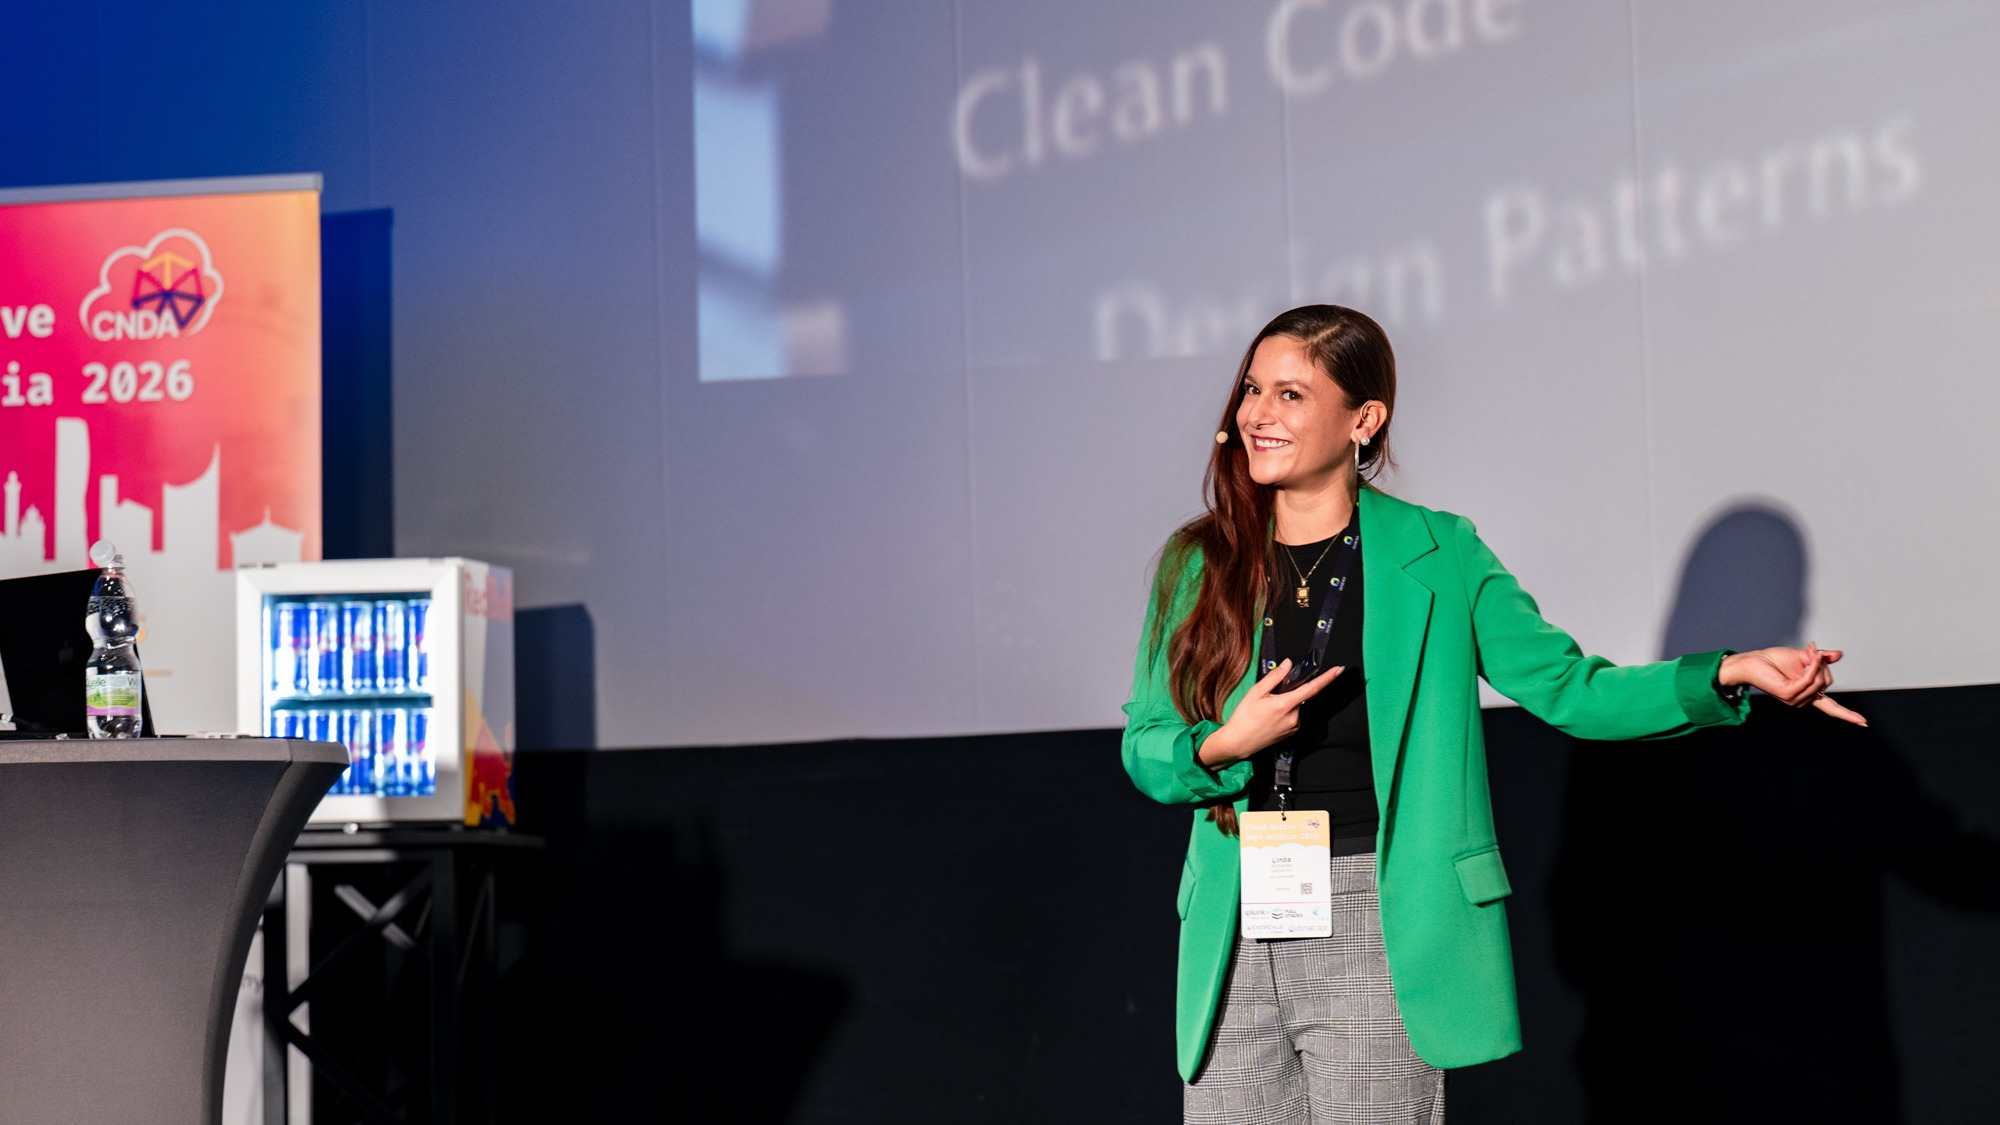
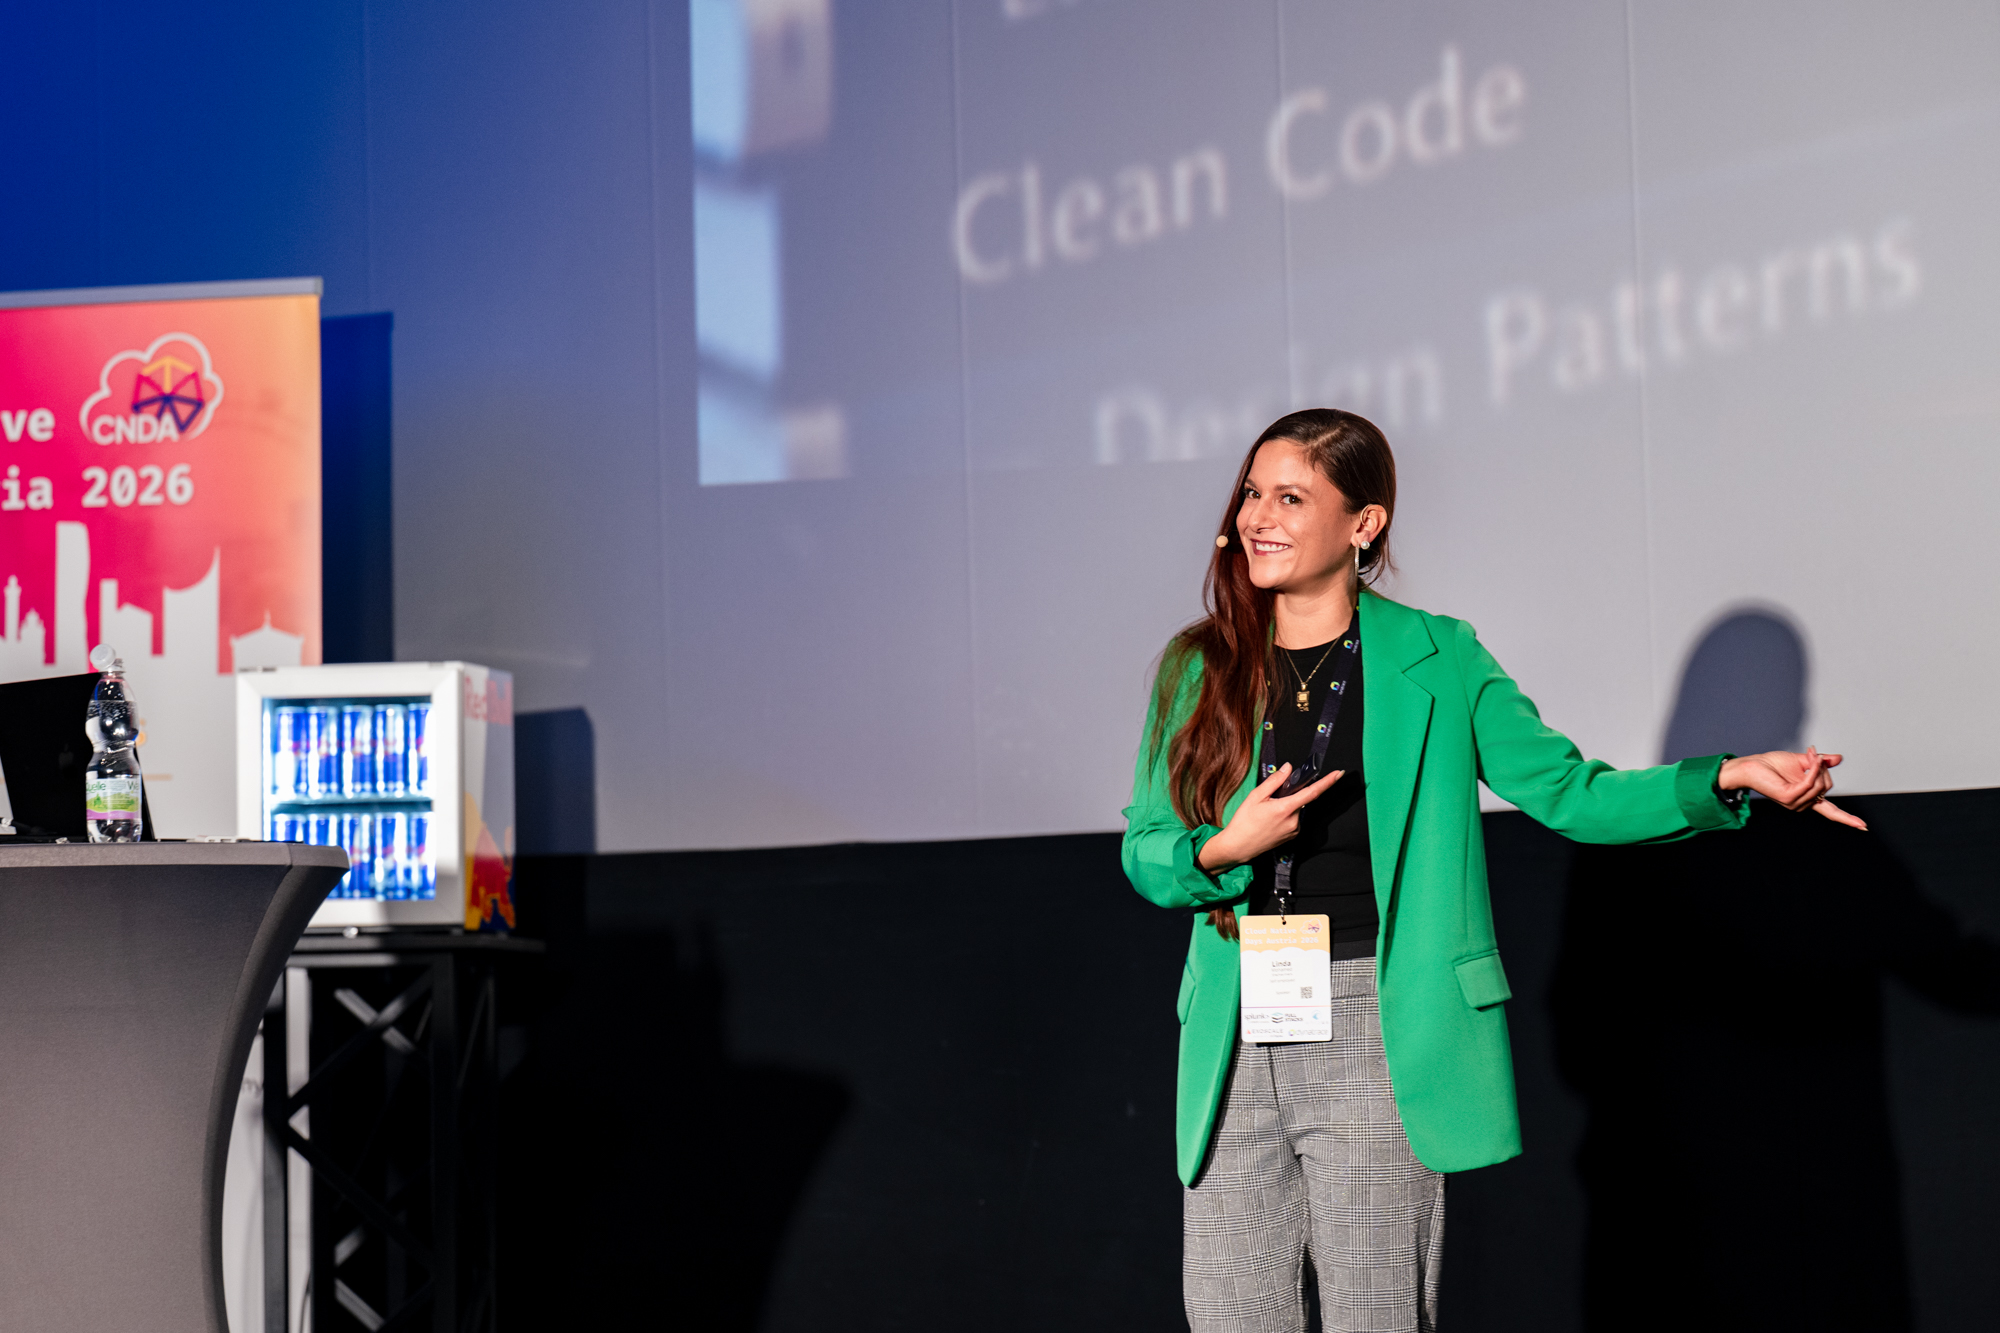
Founder band: show the stage photograph whole, in its own 3:2 shape

diff --git a/layouts/home.html b/layouts/home.html
@@ -63,7 +63,7 @@
       <div>
         {{ partial "image-slot.html" (dict
              "src"   .image
-             "ratio" "hero"
+             "ratio" (.image_ratio | default "hero")
              "alt"   .image_alt
              "note"  "Documentary photograph of the named lead") }}
       </div>

diff --git a/content/_index.md b/content/_index.md
@@ -28,6 +28,8 @@ founder:
   line_1: "I find you the right people."
   line_2: "And I build it with you."
   image: "images/linda-mohamed-stage-cnda-2026.jpg"
+  # 3:2, the shape of the photograph itself, so nothing is cut off.
+  image_ratio: "case"
   image_alt: "Linda Mohamed on stage in a green blazer at Cloud Native Days Austria 2026, smiling at the audience. Photo: Gisiphotography"
   name: "Linda Mohamed"
   role: "Founder · AWS Community Hero"
